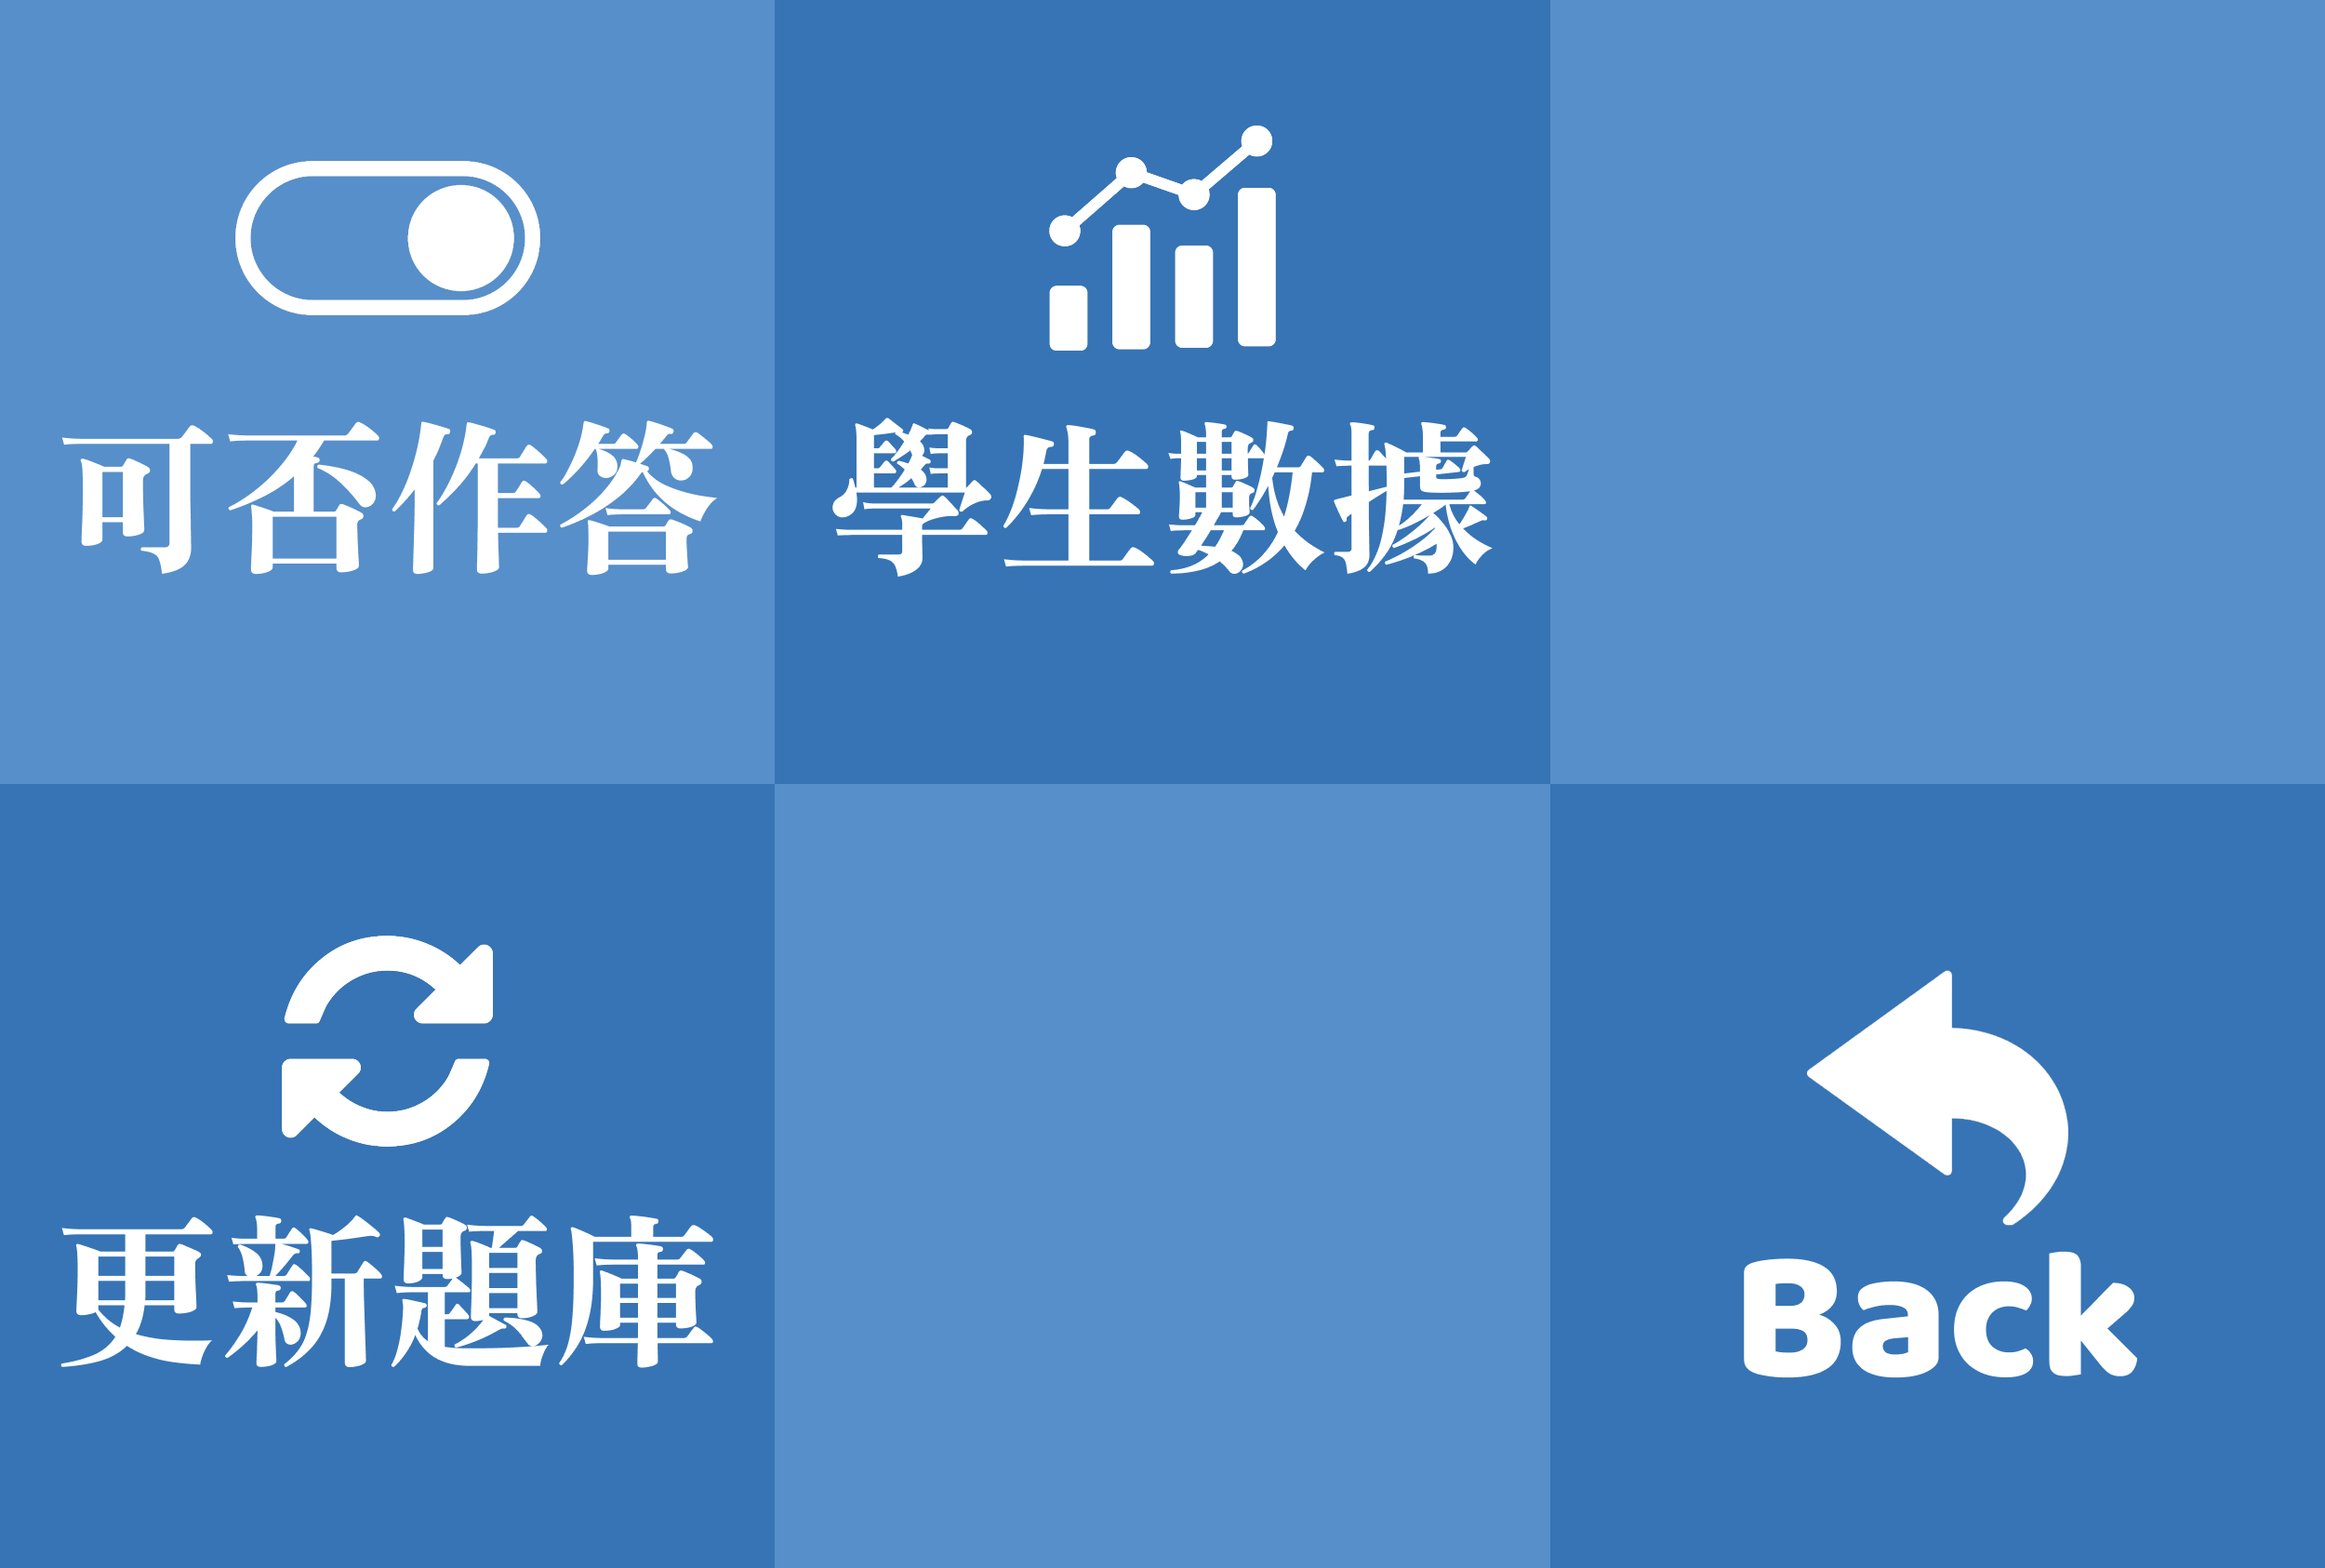
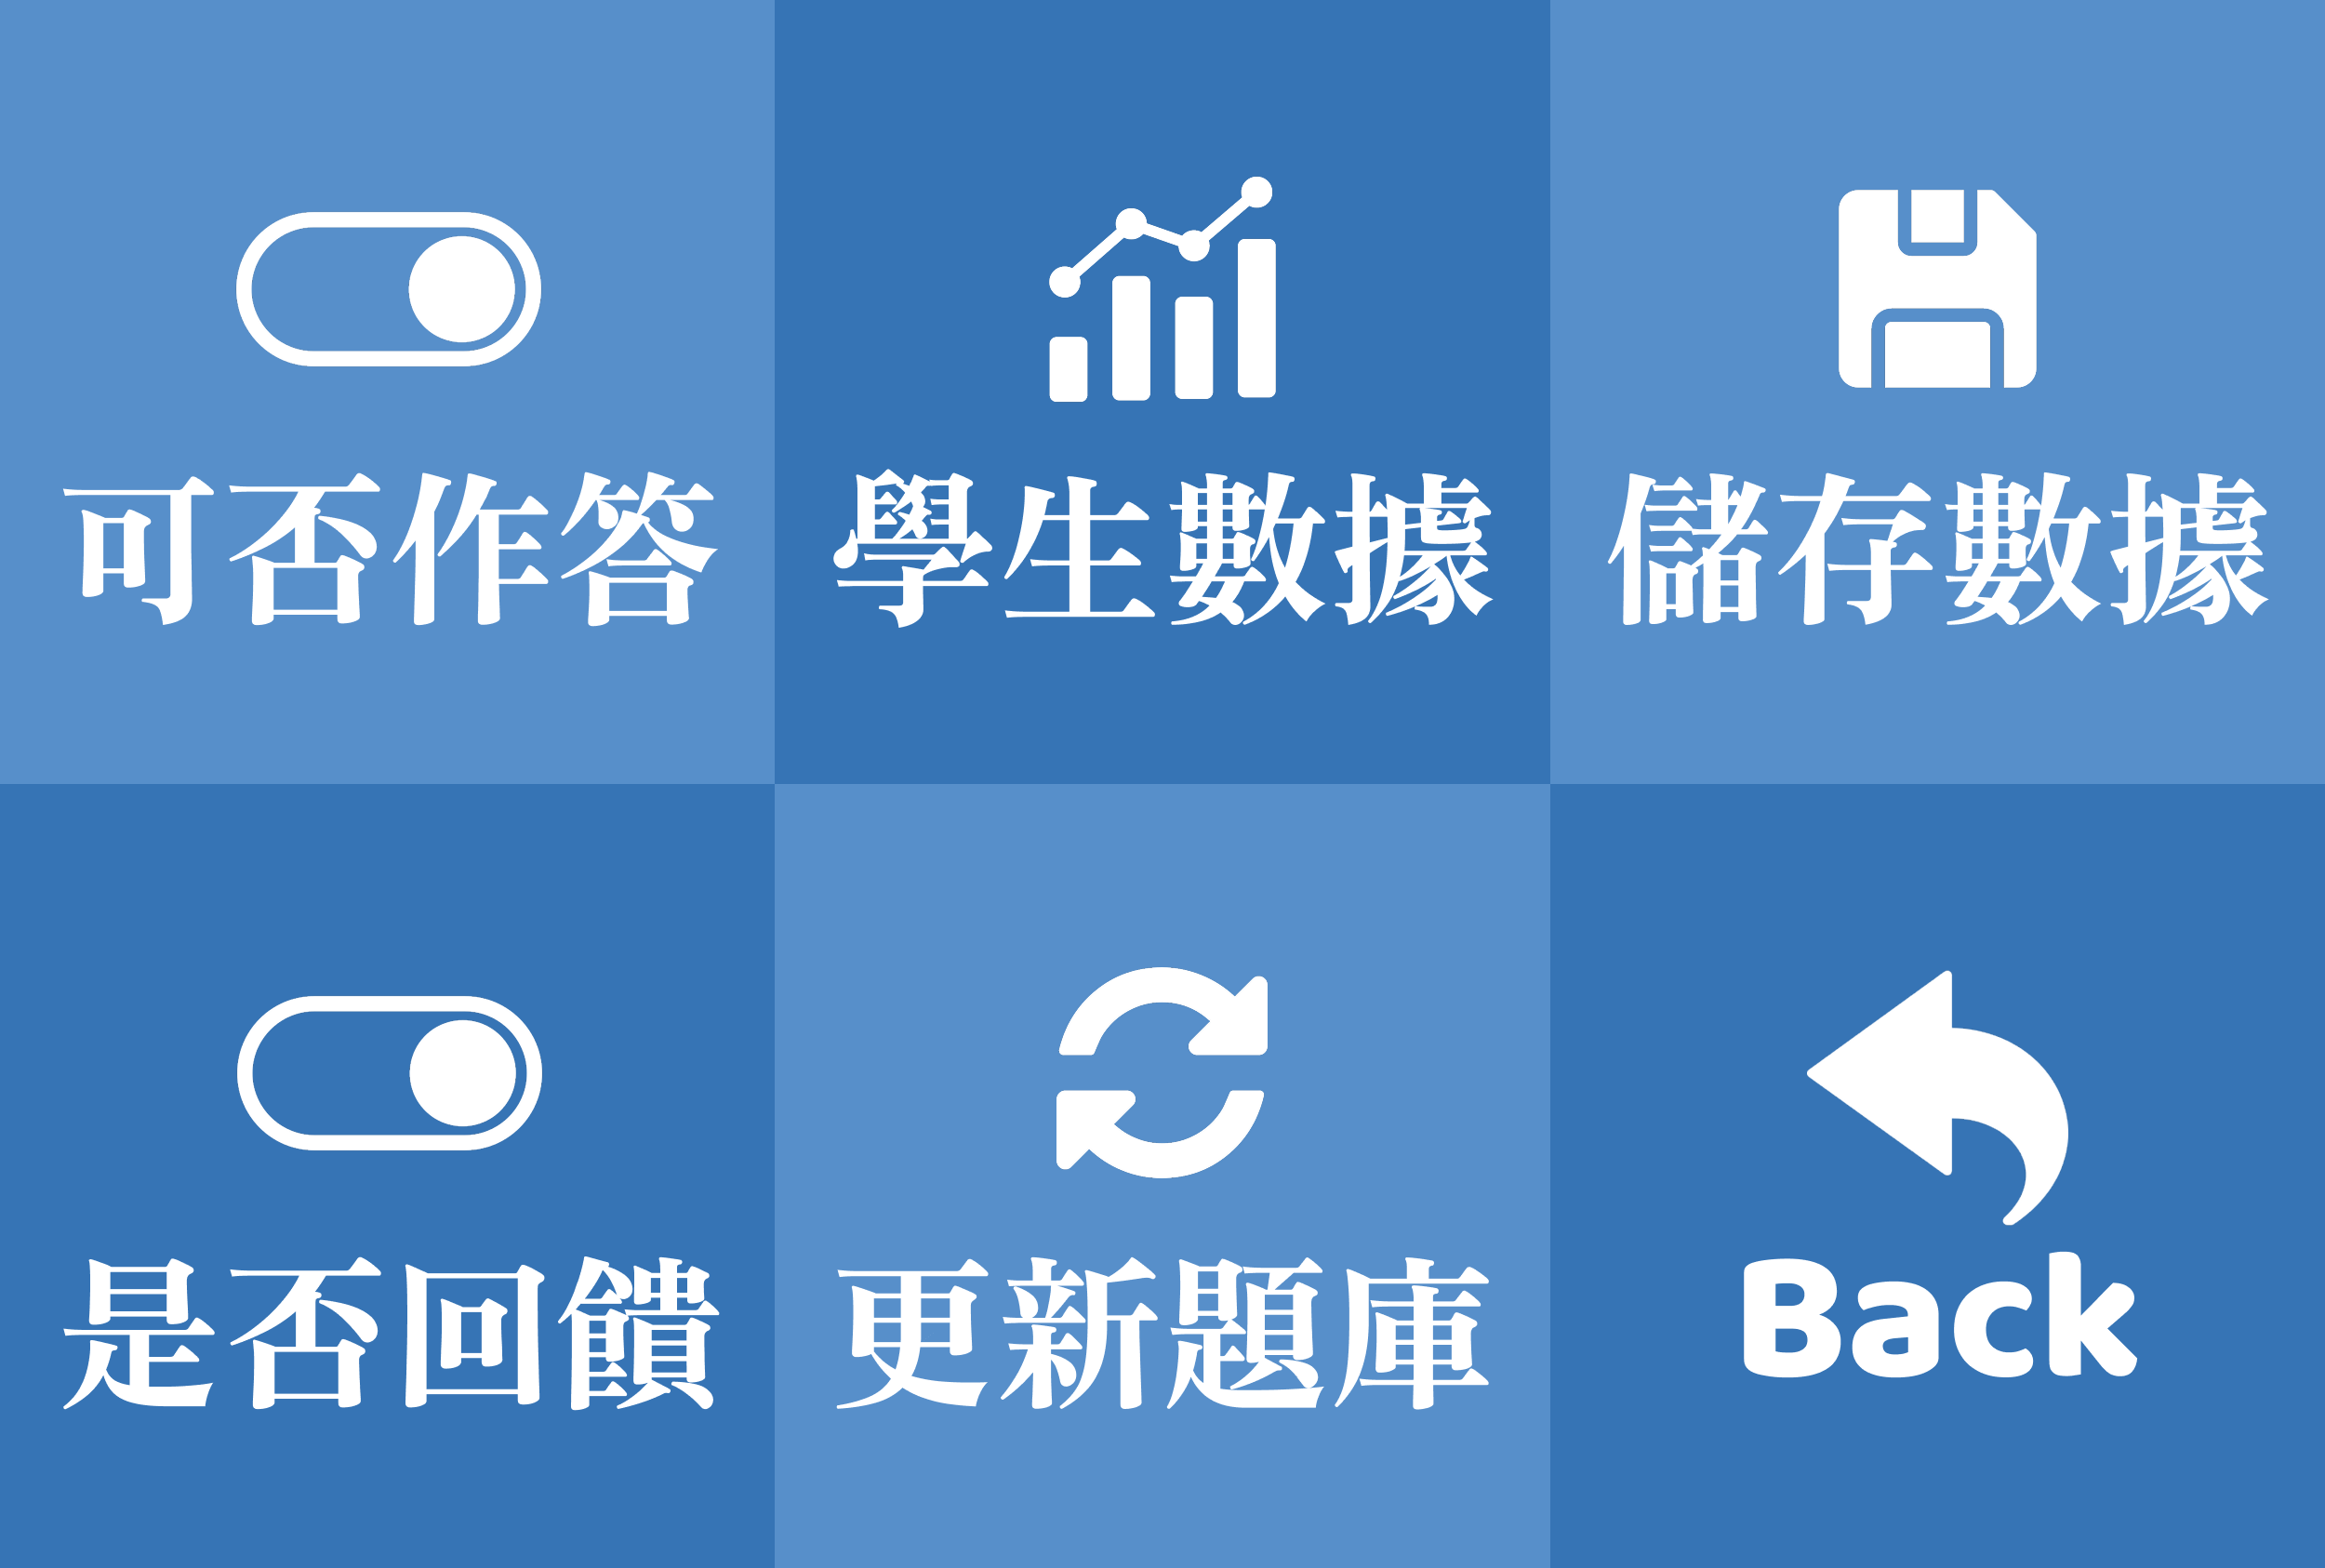
feat: update rich menu management and configuration, enhance Docker setup, and refactor question handling

diff --git a/handlers.py b/handlers.py
@@ -1,3 +1,4 @@
+from os import remove
 from config import line_bot_api, line_bot_api_blob, client, question_manager, rich_menu_manager
 import asyncio
 from utils.message_utils import (
@@ -5,10 +6,7 @@ from utils.message_utils import (
     question_message, carousel_message, SYSTEM_INSTRUCTION, text_message, progress_message,
 )
 from utils.models import SpeechAssessment
-from utils.file_utils import (
-    get_rich_menu_id, isAdmin, save_config, save_user_data, hasData, get_user_state,
-    updateHistory, getHistory, initData, delData, addAdmin
-)
+from utils.file_utils import *
 import tempfile
 import time
 
@@ -250,7 +248,7 @@ async def handle_postback(event):
     if action == 'record':
         # 設定使用者狀態為當前選擇的單元和題目
         category = user_state.category
-        if question_manager.get_category(category) and not question_manager.get_category(category).enabled:
+        if not isEnabled(category):
             await send_text_message(event, "該單元目前不可用。\nCurrently unavailable.")
             return
         sub = int(vars.get('sub', 0))
@@ -273,7 +271,7 @@ async def handle_postback(event):
         if alias in ['admin'] and not isAdmin(user_id):
             await send_text_message(event, '無權限！\nNo permission!')
             return
-        if question_manager.get_category(alias) and not question_manager.get_category(alias).enabled:
+        if alias in ['pretest', 'posttest', 'sheet1', 'sheet2', 'sheet3'] and not isEnabled(alias):
             await send_text_message(event, "該單元目前不可用。\nCurrently unavailable.")
             return
         user_state.category = alias
@@ -282,11 +280,25 @@ async def handle_postback(event):
         await send_message(event, await progress_message(user_id))
     elif action == 'enabled':
         alias = vars.get('alias')
-        question_manager.get_category(alias).enabled = not question_manager.get_category(alias).enabled
-        await send_text_message(event, f'已{"啟用" if question_manager.get_category(alias).enabled else "停用"} {alias}！\n{alias} {"enabled" if question_manager.get_category(alias).enabled else "disabled"}!')
+        if isEnabled(alias):
+            removeEnabled(alias)
+        else:
+            addEnabled(alias)
+        await save_config()
+        await send_text_message(event, f'已{"啟用" if isEnabled(alias) else "停用"} {alias}！\n{alias} {"enabled" if isEnabled(alias) else "disabled"}!')
         await question_manager.save_category(alias)
     elif action == 'respond':
         alias = vars.get('alias')
-        question_manager.get_category(alias).response = not question_manager.get_category(alias).response
-        await send_text_message(event, f'已{"開啟" if question_manager.get_category(alias).response else "關閉"} {alias} 回饋！\n{alias} feedback {"enabled" if question_manager.get_category(alias).response else "disabled"}!')
+        if isResponse(alias):
+            removeResponse(alias)
+        else:
+            addResponse(alias)
+        await save_config()
+        await send_text_message(event, f'已{"開啟" if isResponse(alias) else "關閉"} {alias} 回饋！\n{alias} feedback {"enabled" if isResponse(alias) else "disabled"}!')
         await question_manager.save_category(alias)
+    elif action == 'reload':
+        question_manager.load_questions()
+        await send_text_message(event, '已重新載入問題！\nQuestions reloaded!')
+    elif action == 'save':
+        await save_all()
+        await send_text_message(event, '儲存成功！\nSave successful!')

diff --git a/utils/file_utils.py b/utils/file_utils.py
@@ -12,6 +12,8 @@ user_data: dict[str, User] = {}  # 儲存每個使用者的詳細資料，包括
 DEFAULT_CONFIG = {
     'admin': [],
     'rich_menu_ids': {},
+    'enabled': [],
+    'response': []
 }
 
 # 設定檔案
@@ -75,6 +77,26 @@ def isAdmin(user_id) -> bool:
 async def addAdmin(user_id):
     config['admin'].append(user_id)
     config['admin'] = list(set(config['admin']))
+
+def addEnabled(category):
+    config['enabled'].append(category)
+    config['enabled'] = list(set(config['enabled']))
+
+def removeEnabled(category):
+    config['enabled'].remove(category)
+
+def isEnabled(category):
+    return category in config['enabled']
+
+def addResponse(category):
+    config['response'].append(category)
+    config['response'] = list(set(config['response']))
+
+def removeResponse(category):
+    config['response'].remove(category)
+
+def isResponse(category):
+    return category in config['response']
 
 # 非同步加載設定
 async def load_config():

diff --git a/utils/message_utils.py b/utils/message_utils.py
@@ -10,7 +10,7 @@ from linebot.v3.messaging.models import SetWebhookEndpointRequest
 from utils.models import SpeechAssessment
 import json
 from utils.file_utils import (
-    get_user_state, getHistory, get_rich_menu_id, set_rich_menu_id, save_config, get_rich_menu_category_from_id, clear_rich_menu_id
+    get_user_state, getHistory, get_rich_menu_id, isEnabled, isResponse, set_rich_menu_id, save_config, get_rich_menu_category_from_id, clear_rich_menu_id
 )
 # 設定主網址和分類變數
 URL = f'https://{DOMAIN}'
@@ -18,7 +18,7 @@ IMG_EXT = ('.jpg', '.jpeg', '.png', '.gif', '.bmp', '.tiff', '.webp')
 
 # 系統評估提示語，指導如何進行回答分析
 SYSTEM_INSTRUCTION = f"""
-        你是一個專業英語口說評量助手，擅長根據學生的回答提供改進建議和改善後之文本。
+        你是一個專業英語口說評量助手，擅長根據臺灣非母語者大學生的回答提供改進建議和改善後之文本。
         
         userAnswer 代表使用者的口說回答
         question 代表題目
@@ -203,6 +203,8 @@ async def progress_message(user_id):
     total = 0
     
     for category, question in questions.items():
+        if not isEnabled(question):
+            continue
         for num, _ in enumerate(question.content):
             total += 1
             if getHistory(user_id, f'{category}-{num}'):
@@ -215,17 +217,17 @@ async def progress_message(user_id):
         return TextMessage(text="您已完成所有問題。\nYou have completed all questions.")
     
     # Create a formatted message
-    message = f"您尚未回答 Questions Unanswered ({total - sum(len(v) for v in progress.values())}):\n"
+    message = f"您尚未回答 Questions Unanswered ({sum(len(v) for v in progress.values())}):\n"
     for category, subs in progress.items():
         if len(subs) > 0:
-            message += f"\nCategory {category}:\n"
-        for sub in subs:
-            message += f"\n - Q{sub+1}"
+            message += f"\n{rich_menu_manager.get_display_name(category)}:\n"
+        for i, sub in enumerate(subs):
+            message += f"{"\n" if i > 0 else ""} - Q{sub+1}"
     
     return TextMessage(text=message)
     
     
-async def result_message(result: SpeechAssessment, category: int, sub: int):
+async def result_message(result: SpeechAssessment, category: str, sub: int):
     """
     生成口語評估結果訊息。
     
@@ -337,7 +339,7 @@ async def result_message(result: SpeechAssessment, category: int, sub: int):
                         ],
                     ),
                 )
-            ] if not question_manager.get_category(category).response else [
+            ] if isResponse(category) else [
                 FlexBubble(
                     size='giga',
                     body=FlexBox(
@@ -559,7 +561,7 @@ CHI_HINT = [
 ]
 
 ENG_HINT =[
-    'Enter your class time\n\n1 for English Listening and Speaking in Lab (Architecture)\n2 for English Listening and Speaking in Lab (Commercial Design)\n3 for British Culture and Lifestyle (1-56)\n4 for British Culture and Lifestyle (1-78)',
+    'Enter your class time\n1 for English Listening and Speaking in Lab (Architecture)\n2 for English Listening and Speaking in Lab (Commercial Design)\n3 for British Culture and Lifestyle (1-56)\n4 for British Culture and Lifestyle (1-78)',
     'Next, what is your department?\nFor example: Information Management',
     'Next, what is your student ID?\nFor example: 11352237',
     'Next, what is your name?\nFor example: Paul Wang',
@@ -639,6 +641,7 @@ async def create_rich_menu():
             await rich_menu_manager.delete_rich_menu(r.rich_menu_id)
         clear_rich_menu_id()
     for menu_name, config in configs['rich_menus'].items():
+        rich_menu_manager.set_display_name(menu_name, config.get('chat_bar_text'))
         if get_rich_menu_id(menu_name):
             continue
         builder = build_rich_menu_from_config(menu_name, config)

diff --git a/manager/richmenu.py b/manager/richmenu.py
@@ -107,7 +107,6 @@ class RichMenuManager:
         self.line_bot_api = api
         self.line_bot_api_blob = api_blob
         self.rich_menus = {}
-            
         
     async def create_rich_menu(self, builder: RichMenuBuilder) -> str:
         """
@@ -119,7 +118,6 @@ class RichMenuManager:
         rich_menu_object = builder.build()
         response = await self.line_bot_api.create_rich_menu(rich_menu_request=rich_menu_object, async_req=True).get()
         rich_menu_id = response.rich_menu_id
-        self.rich_menus[rich_menu_id] = rich_menu_object
         return rich_menu_id
 
     async def upload_rich_menu_image(self, rich_menu_id: str, image_path: str):
@@ -143,6 +141,18 @@ class RichMenuManager:
             richMenuId=rich_menu_id,
         ),async_req=True).get()
     
+    def get_display_name(self, rich_menu_alias: str) -> str:
+        """
+        Get the display name of a rich menu.
+        """ 
+        return self.rich_menus[rich_menu_alias]
+    
+    def set_display_name(self, rich_menu_alias: str, display_name: str):
+        """
+        Set the display name of a rich menu.
+        """
+        self.rich_menus[rich_menu_alias] = display_name
+        
     async def get_all_rich_menus(self) -> list:
         """
         Get a list of all rich menus.

diff --git a/manager/question_manager.py b/manager/question_manager.py
@@ -12,7 +12,8 @@ class QuestionManager(object):
     def __init__(self, data_source):
         # 初始化
         self.data_source = data_source
-        self.questions: dict[str, QuestionCategory] = self.load_questions()
+        self.questions: dict[str, QuestionCategory]
+        self.load_questions()
 
     def load_questions(self) -> dict[str, QuestionCategory]:
         # 載入問題
@@ -28,7 +29,7 @@ class QuestionManager(object):
                         continue
                     category_questions = QuestionCategory(**data)
                     questions[file.split('.')[0]] = category_questions
-        return questions
+        self.questions = questions
     
     def get_question(self, category: str, sub: str) -> Question:
         # 返回指定的問題

diff --git a/utils/models.py b/utils/models.py
@@ -42,8 +42,8 @@ class Question(BaseModel):
         return self.model_dump(exclude_none=True)
 
 class QuestionCategory(BaseModel):
-    enabled: bool = Field(description="是否啟用", default=True)  # 是否啟用
-    response: bool = Field(description="是否回饋", default=True)  # 是否回饋
+    # enabled: bool = Field(description="是否啟用", default=True)  # 是否啟用
+    # response: bool = Field(description="是否回饋", default=True)  # 是否回饋
     content: List[Question] = Field(description="問題")  # 問題
     
     def to_dict(self) -> dict: